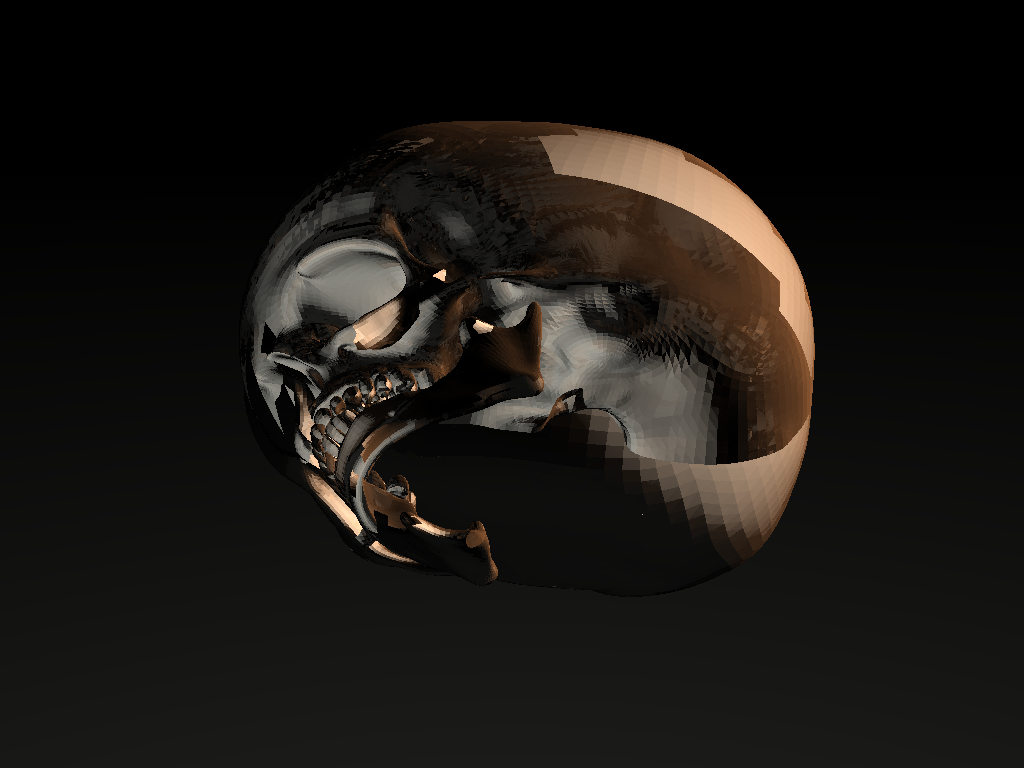
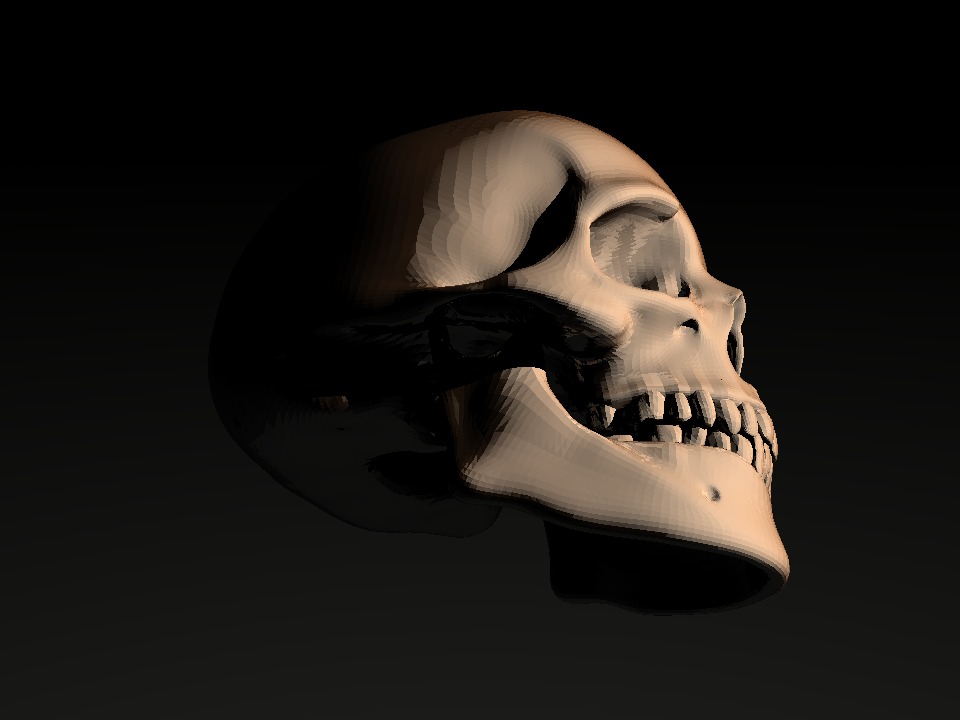
Refresh README with renderer walkthrough
Rewrite the README to better present the project, including a clearer overview of the ray tracer, rendering-flow explanations, pseudocode for the core loop, and a project structure summary. Add and update showcase renders in `assets` so the documentation highlights shadows, reflections, and lighting examples.

Changed region(s): [[0.2188, 0.1528, 0.8438, 0.7944], [0.375, 0.1833, 0.4062, 0.2139]]

diff --git a/README.md b/README.md
@@ -1,85 +1,139 @@
+<div align="center">
+
 # Ray Tracer
-### An extensible ray tracer made with .NET
 
-![Skull render](./assets/skull_face.png)
+**From a university assignment to a C# renderer, one ray at a time.**
 
-Overview
+[![Build and tests](https://github.com/adamstirtan/raytracer/actions/workflows/build.yml/badge.svg)](https://github.com/adamstirtan/raytracer/actions/workflows/build.yml)
+![.NET 10](https://img.shields.io/badge/.NET-10-512BD4?logo=dotnet&logoColor=white)
+![CPU rendering](https://img.shields.io/badge/rendering-CPU-222222)
 
-This repository contains a small, extensible ray tracer written in C# targeting .NET 10. It started as a university project and has been modernized to include a core rendering library, unit tests, and a command-line interface for rendering scenes.
+<img src="assets/skull_face.png" alt="Ray-traced skull mesh with warm lighting, detailed teeth, and dark eye sockets" width="960" />
 
-Projects
+*An OBJ skull, rendered by tracing rays through its triangles and shading the closest visible surface.*
 
-- RayTracer.Core — core ray tracing library: primitives (Sphere, Plane, Triangle, Box, Cylinder, Disk), materials, scenes, and the rendering engine.
-- Raytracer.Cli — console app to render scenes from the command line.
-- RayTracer.Core.Tests — unit tests for primitives and basic rendering features (MSTest).
+[How it works](#how-it-works) · [The rendering loop](#the-rendering-loop) · [Inside the project](#inside-the-project)
 
-Top-level structure
+</div>
 
-- RayTracer.sln — Visual Studio/.NET solution file
-- RayTracer.Core/ — main library and scene definitions
-- Raytracer.Cli/ — CLI that exposes scenes and rendering options
-- RayTracer.Core.Tests/ — MSTest unit tests
-- assets/ — example textures and produced renders used in the README
+This project began as a university assignment and has grown through years of returning to the same question: **how do geometry and light become an image?** Today it is a CPU ray tracer written in C# on .NET 10, with imported meshes, textured materials, cast shadows, and recursive reflections.
 
-Available scenes (CLI)
+## Light, surfaces, and a little recursion
 
-- sphere — simple sphere scene
-- triangle — ground plane + triangle
-- box — axis-aligned box scene
-- cylinder — finite cylinder scene
-- disk — circular disk scene
-- billiards — billiards table with multiple colored balls (shown above)
-- crystal-orchard — decorative crystalline Orchard (larger scene)
+<table>
+<tr>
+<td width="50%"><img src="assets/sphere_shadows.png" alt="Red and blue spheres casting overlapping shadows on a reflective floor" width="480" /></td>
+<td width="50%"><img src="assets/box_lighting.png" alt="Blue box with distinct lighting on each visible face and a floor reflection" width="480" /></td>
+</tr>
+<tr>
+<td><strong>Shadows & reflections</strong><br />Visibility rays determine which lights reach a surface. Reflected rays reveal the surrounding scene.</td>
+<td><strong>Surface normals</strong><br />Each face's orientation controls how much light it receives. The same geometry appears in the reflective floor.</td>
+</tr>
+</table>
 
-Developer quickstart (local)
+| Part of the renderer | What it contributes |
+| :--- | :--- |
+| **Geometry** | Spheres, planes, triangles, boxes, capped cylinders, disks, and ray-marched tori |
+| **OBJ meshes** | Polygon triangulation and the nearest triangle intersection for each ray |
+| **Materials** | Surface color, UV textures, diffuse lighting, specular highlights, and reflection strength |
+| **Camera** | Perspective projection, look-at targets, and runtime position controls |
+| **Sampling** | A regular subpixel grid—1, 4, 9, or more square-count samples—to smooth edges |
+| **Execution** | Parallel image rows and immutable intersection results carrying each hit's normal |
 
-Prerequisites
-- .NET 10 SDK (tested with /usr/local/share/dotnet/dotnet 10.0.x)
-- Optional: GitHub CLI (`gh`) if you want to open PRs from the command line
+## How it works
 
-Build and run
-1. Clone the repository and change into it:
-   - git clone https://github.com/adamstirtan/raytracer.git
-   - cd raytracer
-2. Restore and build:
-   - dotnet restore
-   - dotnet build -c Release
-3. Run tests:
-   - dotnet test -c Release
-4. Render a scene with the CLI (example):
-   - dotnet run --project Raytracer.Cli/Raytracer.Cli.csproj -c Release -- --scene billiards --width 1024 --height 768 --out ./billiards.png
+A ray starts at the camera and passes through a sample within a pixel. The renderer finds the nearest surface along that ray, calculates its lighting, and follows additional rays where needed.
 
-Notes about the runtime and testing
-- Tests use MSTest in RayTracer.Core.Tests and exercise primitive intersection logic and small scene renders. Running `dotnet test` will run the unit suite.
-- If you see compiler errors referencing ambiguous types (e.g., Plane vs System.Numerics.Plane or Math vs RayTracer.Core.Math), fully-qualify the type (e.g., `RayTracer.Core.Primitives.Plane` or `System.Math.PI`) or add a using alias to disambiguate.
+```mermaid
+flowchart LR
+    A[Camera ray] --> B{Nearest surface?}
+    B -->|Miss| C[Black background]
+    B -->|Hit| D[Color or UV texture]
+    D --> E[Shadow rays toward lights]
+    E --> F[Visible diffuse and specular light]
+    F --> G{Reflective surface?}
+    G -->|Yes| H[Trace reflected ray]
+    H --> I[Combine contributions]
+    G -->|No| I
+    I --> J[Average pixel samples]
+```
 
-Coding conventions & tips
-- Prefer `System.Math` or `MathF` for math constants and functions to avoid collisions with the `RayTracer.Core.Math` namespace.
-- Use `System.Numerics.Vector3` for vectors; the project already uses these types across primitives and math utilities.
-- Keep scene construction in the Scenes folder (RayTracer.Core/Scenes) and make small, reviewable changes to avoid large render regressions.
+Three ray types do the work:
 
-Adding scenes & assets
-- Add a new Scene class under RayTracer.Core/Scenes/ and register objects using AddObject/AddLight in the scene constructor.
-- Add any textures to `RayTracer.Core/Textures` (the csproj copies a few textures to output by default).
+- **Camera rays** answer “what surface is visible at this pixel?”
+- **Shadow rays** answer “can this surface see the light?” A blocker counts only when it lies before the light.
+- **Reflection rays** answer “what is visible in the mirror direction?” They repeat the same tracing process up to a depth limit.
 
-CLI notes
-- The CLI accepts a `--scene` argument that names a scene; check Raytracer.Cli/Program.cs for CLI options and add flags there for additional rendering controls (antialiasing, samples, threads).
+## The rendering loop
 
-CI & automation suggestions
-- Add a GitHub Actions workflow that runs `dotnet restore`, `dotnet build`, and `dotnet test` on PRs.
-- Optionally add a workflow to produce sample renders as artifacts for PR previews (run the CLI on a small scene at low resolution).
+The following pseudocode summarizes the renderer. Small offsets keep secondary rays from immediately intersecting the surface they just left.
 
-Common troubleshooting
-- Build errors about ambiguous types: qualify the type with the namespace or add an alias.
-- Tests failing due to numeric tolerances: some tests validate intersection distances — small floating-point variations between runtimes may require relaxed assertions.
+```text
+function render(scene, camera, samplesPerPixel, maxDepth):
+    basis = lookAt(camera.position, camera.target)
+    # If position equals target, use the +Z direction.
 
-Contributing
-- Fork or branch, implement changes, run `dotnet test` locally, open a PR with clear description and small commits.
-- For larger changes (mesh loader, BVH acceleration), open an RFC issue describing design, benchmarks, and an incremental plan.
+    parallel for each image row:
+        for each pixel in row:
+            colors = []
 
-If you want, I can:
-- Add a GitHub Actions workflow that runs the build and tests on PRs (I can open a PR with the workflow). 
-- Add a small CONTRIBUTING.md with typical developer steps and code style rules.
-- Add a script to produce sample renders (batch) and save artifacts to `assets/renders/` for PR previews.
+            for each sample in a regular grid within pixel:
+                ray = perspectiveRay(camera.position, basis, sample)
+                colors.append(trace(scene, ray, depth = 1, maxDepth))
 
-— Dex
+            image[pixel] = clamp(average(colors), 0, 1)
+
+    return image
+```
+
+The tracing function turns one intersection into a color:
+
+```text
+function trace(scene, ray, depth, maxDepth):
+    if depth > maxDepth:
+        return BLACK
+
+    hit = nearestIntersection(scene, ray)
+    if hit does not exist:
+        return BLACK
+    if hit.object is a light:
+        return hit.object.color
+
+    normal = hit.normal
+    if ray started inside the sphere:
+        normal = -normal            # Shade the interior-facing surface.
+
+    baseColor = sampleTexture(hit.uv) if textured else hit.material.color
+    color = BLACK
+
+    for each light in scene:
+        direction = normalize(light.position - hit.position)
+        shadowRay = rayFrom(hit.position + direction * epsilon, direction)
+        blocked = any non-light object intersects shadowRay before light
+
+        if not blocked:
+            color += diffuse(normal, direction, baseColor, light)
+            color += specular(normal, direction, ray, light)
+
+    if hit.material.reflection > 0 and depth < maxDepth:
+        direction = reflect(ray.direction, normal)
+        reflectedRay = rayFrom(hit.position + direction * epsilon, direction)
+        color += hit.material.reflection * trace(scene, reflectedRay, depth + 1, maxDepth)
+
+    return color
+```
+
+The closest-hit rule is essential for meshes: a triangle encountered first in the OBJ file may sit behind another triangle. Each ray searches the mesh for the smallest valid positive intersection distance and keeps that triangle's normal with the result.
+
+## Inside the project
+
+| Project | Responsibility |
+| :--- | :--- |
+| [RayTracer.Core](RayTracer.Core) | Geometry, materials, cameras, scenes, and the rendering engine |
+| [RayTracer.Cli](RayTracer.Cli) | Scene selection, camera and sampling options, and PNG output |
+| [RayTracer.Core.Tests](RayTracer.Core.Tests) | Regression tests for intersections, normals, shadows, camera targets, and small renders |
+| [assets](assets) | OBJ models and example renders |
+
+The skull uses the CLI's `mesh` scene. Other scenes include `sphere`, `triangle`, `box`, `cylinder`, `disk`, `billiards`, `hand`, `torus`, and `reflective`.
+
+This is a classic direct-light ray tracer with recursive mirror reflections. Mesh intersections currently check every triangle; a spatial acceleration structure is a natural next step for larger models.
